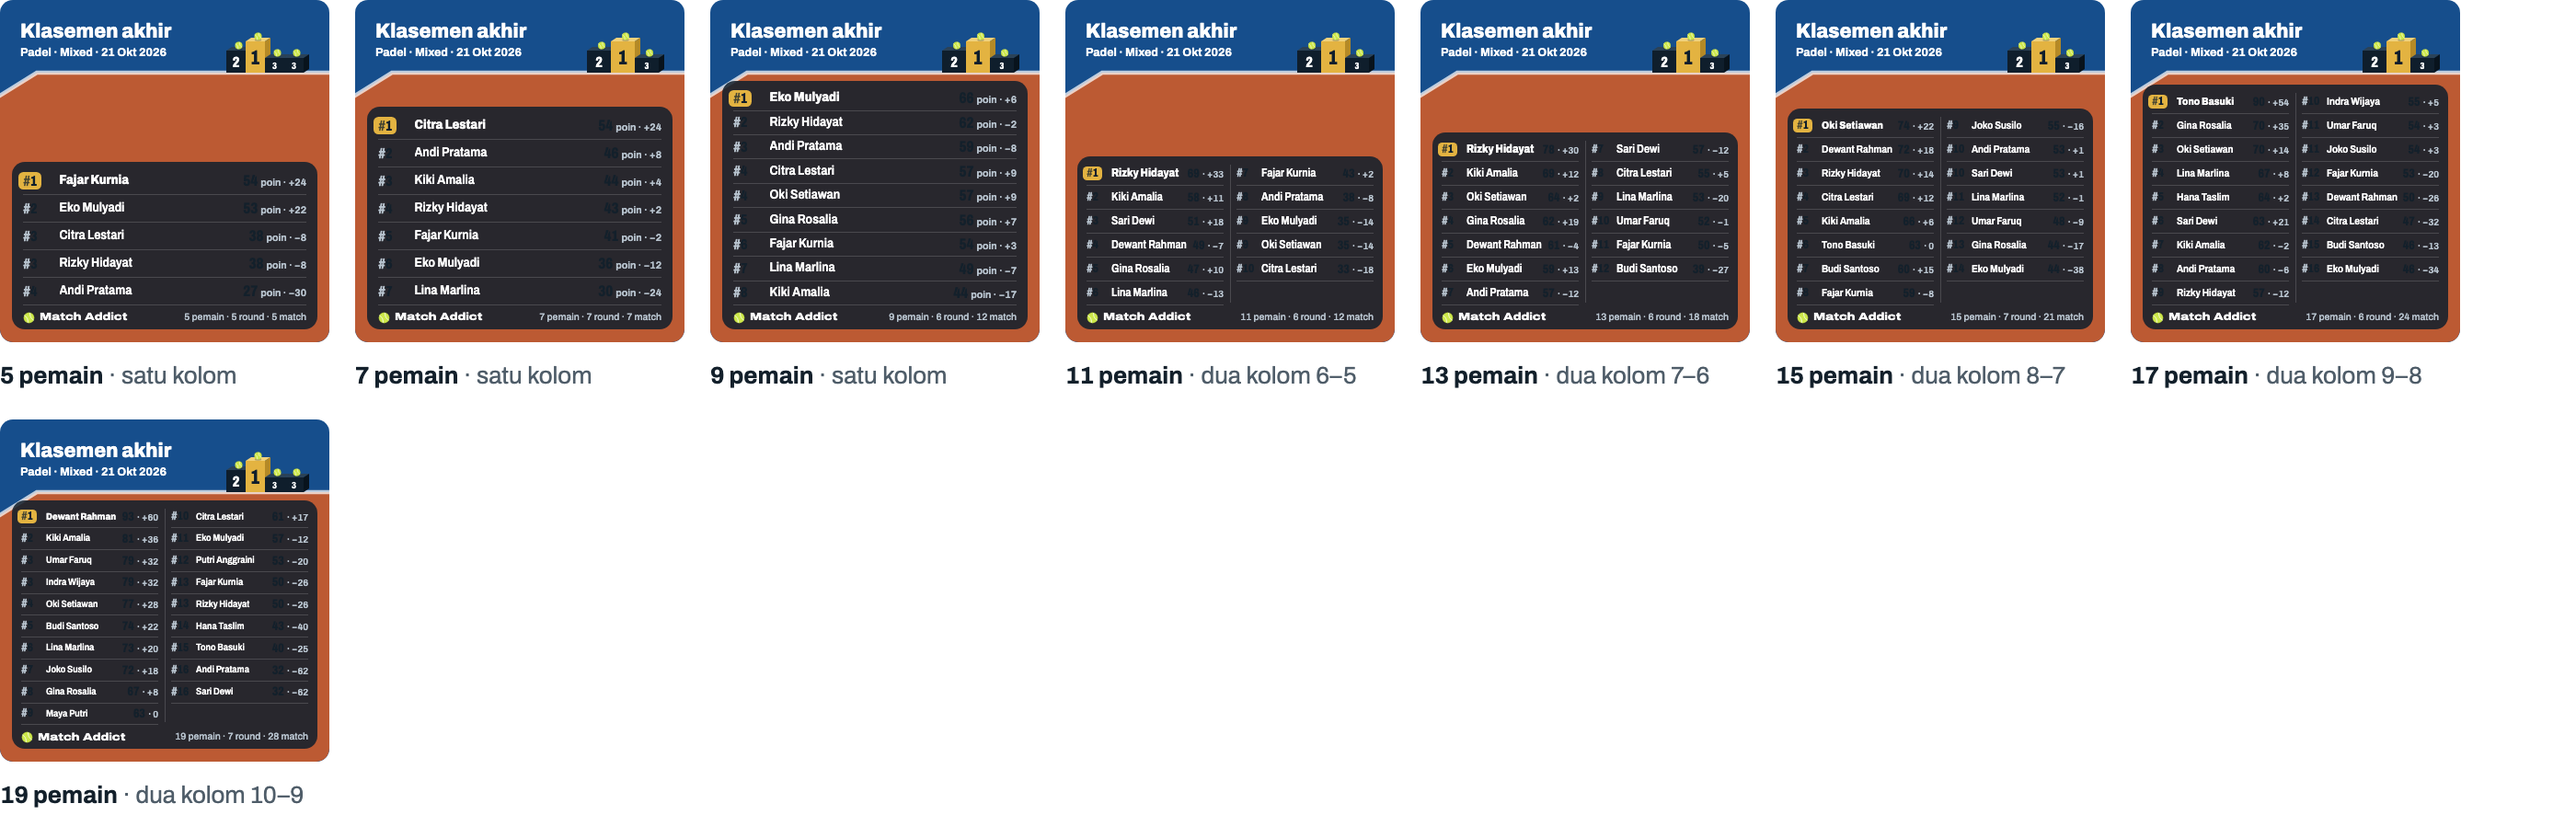
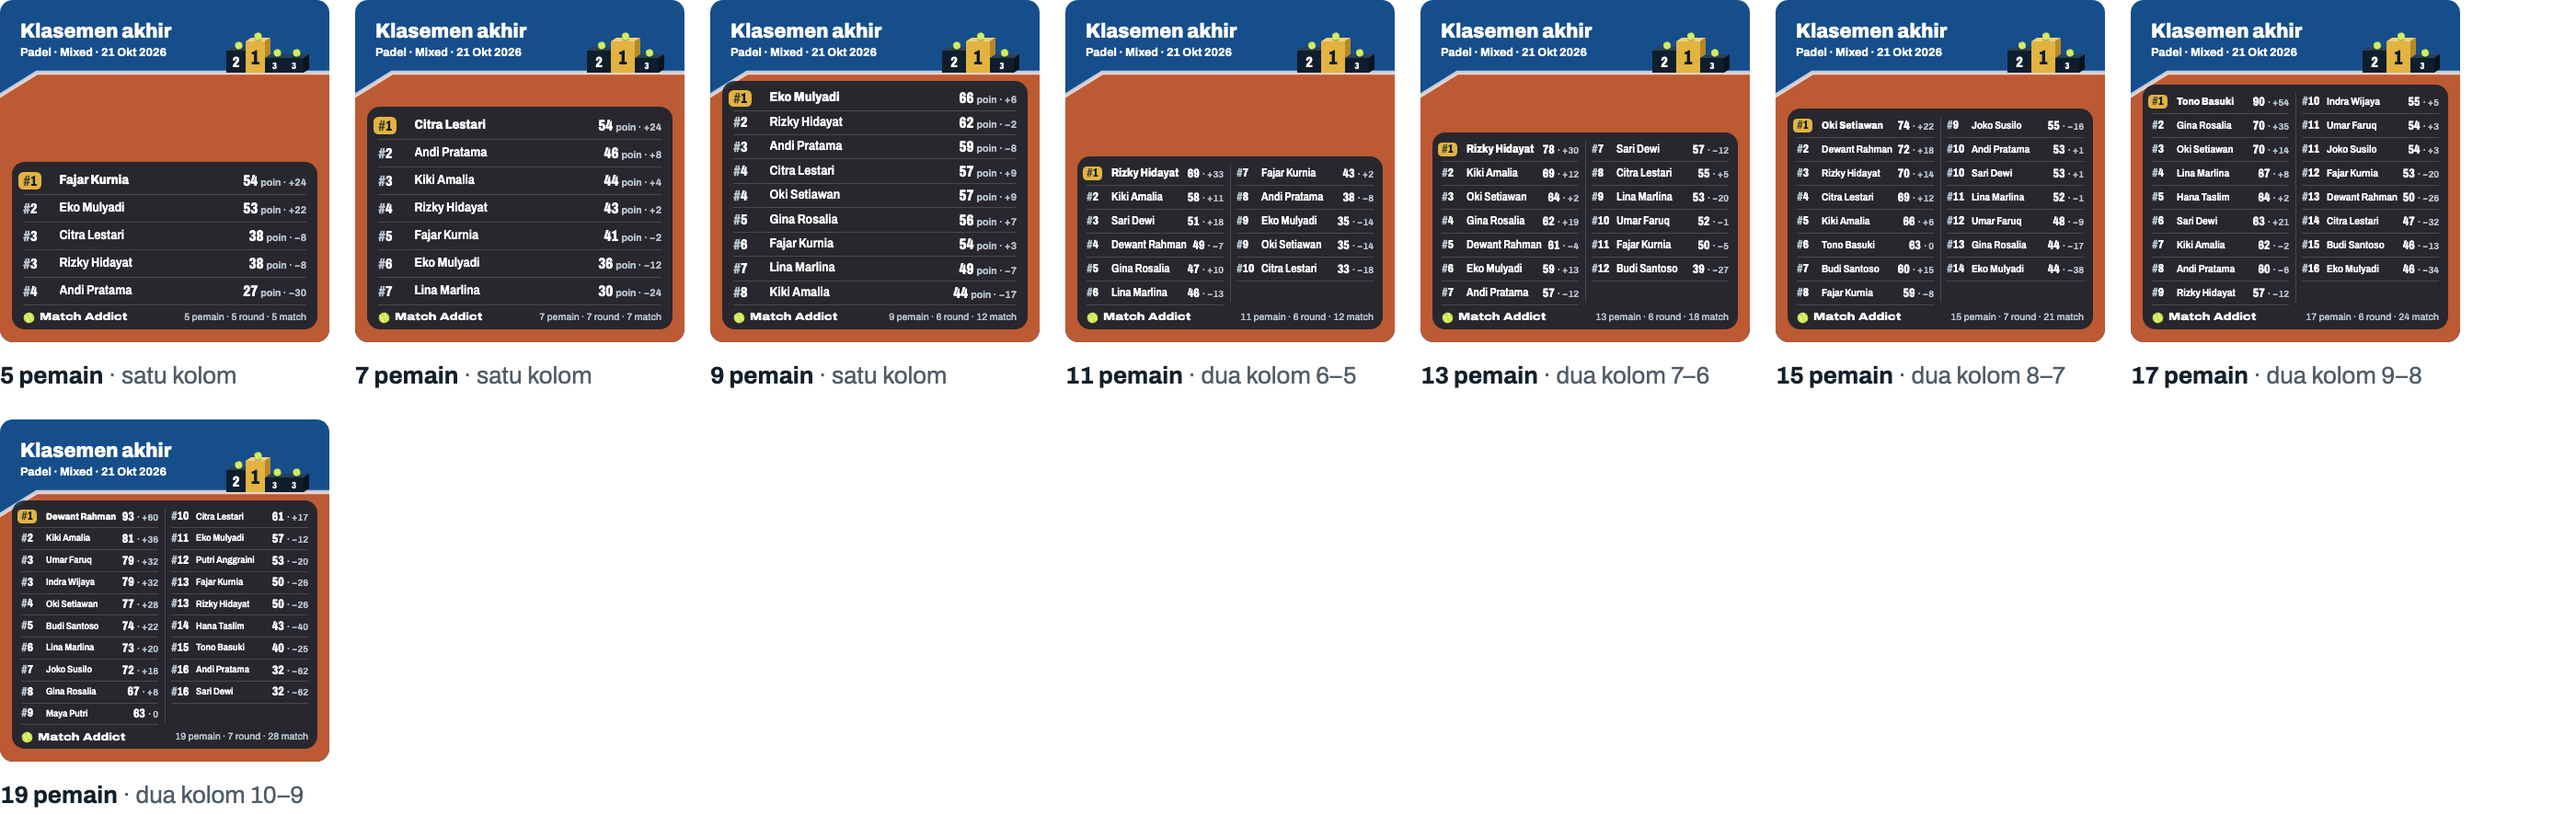
[docs] hi-fi 11j: nomor/nilai poster mini warna panel (.mini > span b)

diff --git a/design/hifi.html b/design/hifi.html
@@ -381,7 +381,7 @@ table.map { width: 100%; border-collapse: collapse; font-size: 14px; min-width: 
 .minis { display: flex; flex-wrap: wrap; gap: 14px; }
 .mini { width: 195px; display: flex; flex-direction: column; gap: 8px; font-size: 13px; color: var(--muted); }
 .mini svg { border-radius: 14px; }
-.mini b { color: var(--fg); }
+.mini > span b { color: var(--fg); }
 .sports { display: grid; grid-template-columns: 1fr 1fr; gap: 10px; }
 .sport { background: var(--card); border-radius: 14px; padding: 14px; height: 128px; display: flex; flex-direction: column; justify-content: space-between; }
 .sport img { height: 64px; width: auto; align-self: flex-start; }
@@ -4362,7 +4362,7 @@ Andi<span class="caret"></span></div><span class="thumb" style="top:80px"></span
     <div class="panel">
       <h3>Sudah disetujui</h3>
       <ul class="ruleslist">
-        <li><b>Poster Lengkap arah B "Podium mini"</b> (keputusan host 76–90, 2026-11-13, PRD 5.9; 11b, 11e–11m, 13s–13w, Komponen <code>.lk</code>): <b>76</b> Lengkap satu keluarga dengan poster podium: tema bawaan lapangan ikut olahraga, sudut lapangan kecil di kepala, panel bergaya panel podium; deret tema Ringkas dan Lengkap sama (11 lingkaran 27 pt), menggantikan 70. <b>77</b> Baris = nilai metode + selisih, tanpa W–L. <b>78</b> Data 11h diperbaiki (selisih +4 → 0). <b>79</b> Arah B: podium mini (angka + bola, tanpa nama) di garis belakang di kanan judul, daftar di panel 86% di atas lantai. <b>80</b> Satu aturan kepadatan: huruf baris mengikuti tinggi baris, dibatasi ukuran panel podium; menggantikan ambang 10 / 15 / 20 baris. <b>81</b> Story Mixed di atas 20 pemain dua kolom rata; pasangan Fixed tetap satu kolom. <b>82</b> Judul maksimal dua baris di samping podium mini, 22 → 18,5 (Story 27 → 23); podium mini Story lebih ramping; baris kecil Story satu baris. <b>83</b> Sparing: skor klub hanya di blok podium mini; kepala klub di panel = nama + "83 game · +14". Tidak berlaku lagi untuk Lengkap: watermark raket, piala, baris kecil huruf kapital, kanvas Story 203 × 360, ambang jumlah baris, deret 10 lingkaran 30 pt. Data 11e/11f diganti data simulasi yang jumlah selisihnya 0. <b>84</b> Baris kecil yang lebih lebar dari kolom judul mengecil per 0,5 sampai 11, tidak pecah. <b>85</b> Podium mini kasus khusus ikut podium: lebih dari 4 di #1 = satu blok emas lebar tanpa bola, belum ada match = garis belakang tanpa blok (11m). <b>86</b> Sparing Story banyak pemain: dua kolom per klub (13w). <b>87</b> Belum ada match: panel hanya wordmark + fakta (11m). <b>88</b> Story Fixed 15 pasangan tetap satu kolom; diuji di HP. <b>89</b> Sparing belum ada match: ikut 87 tanpa kasus khusus (tanpa blok, panel wordmark + fakta, judul selebar kasus kosong). <b>90</b> Story Fixed campuran: semua baris setinggi baris pasangan, seperti Ringkas 18l (keduanya tanpa frame).</li>
+        <li><b>Poster Lengkap arah B "Podium mini"</b> (keputusan host 76–90, 2026-11-13, PRD 5.9; 11b, 11e–11m, 13s–13w, Komponen <code>.lk</code>): <b>76</b> Lengkap satu keluarga dengan poster podium: tema bawaan lapangan ikut olahraga, sudut lapangan kecil di kepala, panel bergaya panel podium; deret tema Ringkas dan Lengkap sama (11 lingkaran 27 pt), menggantikan 70. <b>77</b> Baris = nilai metode + selisih, tanpa W–L. <b>78</b> Data 11h diperbaiki (selisih +4 → 0). <b>79</b> Arah B: podium mini (angka + bola, tanpa nama) di garis belakang di kanan judul, daftar di panel 86% di atas lantai. <b>80</b> Satu aturan kepadatan: huruf baris mengikuti tinggi baris, dibatasi ukuran panel podium; menggantikan ambang 10 / 15 / 20 baris. <b>81</b> Story Mixed di atas 20 pemain dua kolom rata; pasangan Fixed tetap satu kolom. <b>82</b> Judul maksimal dua baris di samping podium mini, 22 → 18,5 (Story 27 → 23); podium mini Story lebih ramping; baris kecil Story satu baris. <b>83</b> Sparing: skor klub hanya di blok podium mini; kepala klub di panel = nama + "83 game · +14". Tidak berlaku lagi untuk Lengkap: watermark raket, piala, baris kecil huruf kapital, kanvas Story 203 × 360, ambang jumlah baris, deret 10 lingkaran 30 pt. Data 11e/11f diganti data simulasi yang jumlah selisihnya 0. <b>84</b> Baris kecil yang lebih lebar dari kolom judul mengecil per 0,5 sampai 11, tidak pecah. <b>85</b> Podium mini kasus khusus ikut podium: lebih dari 4 di #1 = satu blok emas lebar tanpa bola, belum ada match = garis belakang tanpa blok (11m). <b>86</b> Sparing Story banyak pemain: dua kolom per klub (13w). <b>87</b> Belum ada match: panel hanya wordmark + fakta (11m). <b>88</b> Story Fixed 15 pasangan tetap satu kolom; diuji di HP. <b>89</b> Sparing belum ada match: ikut 87 tanpa kasus khusus (tanpa blok, panel wordmark + fakta, judul selebar kasus kosong). <b>90</b> Story Fixed campuran: semua baris setinggi baris pasangan, seperti Ringkas 18l (keduanya tanpa frame). Perbaikan 11j (host, 2026-11-13): nomor dan nilai poster mini memakai warna teks panel; aturan <code>.mini b</code> dibatasi ke keterangan (<code>.mini &gt; span b</code>).</li>
         <li><b>Kontras tema Bagikan</b> (keputusan host 75, 2026-11-13): warna ujung gradien hijau, jingga, teal digelapkan satu tingkat (#15803D, #C2410C, #0F766E) supaya teks putih di baris bawah poster Lengkap ≥ 4,5 : 1 (5,0 / 5,2 / 5,5). Teks kecil 70% transparan tidak diubah.</li>
         <li><b>Poster podium</b> (keputusan host 60–71, 2026-11-12, PRD 5.9; 11a, 11c, 11d, 13q, 13r, 18a–18t, Komponen <code>.podium</code>): <b>60</b> poster Ringkas diganti poster podium arah "Sudut lapangan" (Feed 1080×1080 dan Story 1080×1920); poster Lengkap tetap pilihan kedua dan tidak didesain ulang. <b>61</b> Fixed: satu anak tangga = satu pasangan (dua nama, dua bola); Mixed dan Mexicano: satu pemain. <b>62</b> Sparing: dua blok skor klub, tanpa bola, tanpa pemain terbaik tiap klub (perorangan hanya di Lengkap). <b>63</b> Statistik: nilai metode + selisih untuk yang di podium dan satu baris fakta turnamen; satuan ditulis di Feed dan Story ("80 poin · +34"); judul tetap "Klasemen akhir" / "Klasemen sementara"; tanpa W–L. <b>64</b> Host: "jika ada peringkat kembar, tinggi podium harus sama": nomor sama → anak tangga sama tinggi. <b>65</b> Semua yang senomor dengan baris ketiga ikut naik, maksimal 4 anak tangga; lebih dari itu dipangkas ke kelompok nomor yang utuh (#1, #2, #3, #3, #3 → hanya #1 dan #2). <b>66</b> Palet lapangan ikut olahraga (padel terracotta, tennis biru court) jadi bawaan; sepuluh gradien lama tetap bisa dipilih. <b>67</b> Host: "untuk bagian kotak berisi nama peserta yang podium nya dibuat sedikit transparan untuk warna kotak nya": panel nama 86%, kontras teks panel terburuk 5,3 : 1 (peach), lapangan 14,8 / 8,3. Tidak berlaku lagi untuk Ringkas: "5 teratas + n lainnya", "3 teratas tiap klub" (K7), "Story tanpa satuan", piala dan watermark raket; semuanya tetap untuk Lengkap. Frame 11a, 11c, 11d, 13q, 13r digambar ulang dengan nomor yang sama; varian baru 18a–18t. <b>68</b> Lebih dari empat di #1 (18s): satu blok emas lebar tanpa bola + baris "#1 · 6 pemain · 12 poin · +3" (Fixed "6 pasangan"). <b>69</b> Belum ada match selesai (18t): lapangan kosong, panel hanya wordmark + fakta. <b>70</b> Deret tema Ringkas 11 lingkaran 27 pt (lapangan + 10 gradien); Lengkap tetap 10 lingkaran 30 pt dan pilihan lapangan dipakai sebagai biru, sampai Lengkap dirombak (digantikan 76). <b>71</b> Fakta Sementara "R3 · 7 dari 9 match"; podium Fixed campuran pasangan + pemain tunggal (18l) tanpa hitungan pasangan/pemain di baris fakta. <b>72</b> (2026-11-13) Sparing 0 – 0 ikut 69: lapangan kosong. <b>73</b> Lebih dari empat di #1 pada Fixed: ukuran tunggal, "6 pasangan" tanpa bola. <b>74</b> Sama pada Fixed campuran: angka "{n}" tanpa kata. Rinciannya di panel "Poster podium".</li>
         <li><b>Tukar pemain Mixed</b> (host: "setuju", 2026-11-12; PRD §15, keputusan 48–57): ikon <code>arrows-left-right</code> di kolom bola, satu per tim yang punya kandidat, hanya match Belum di round terakhir; area ketuk 44 × 42 pt; sheet satu langkah dengan label "Diganti" dan tombol "Tukar"; Tukar mati tanpa alasan di tombol, seperti Simpan skor; ikon juga di Jadwal host saat live (12a–12g). Titik masuk di menu ⋯ dan Input Skor ditolak host. Frame 17a–17r; rincian di panel "Tukar pemain".</li>
